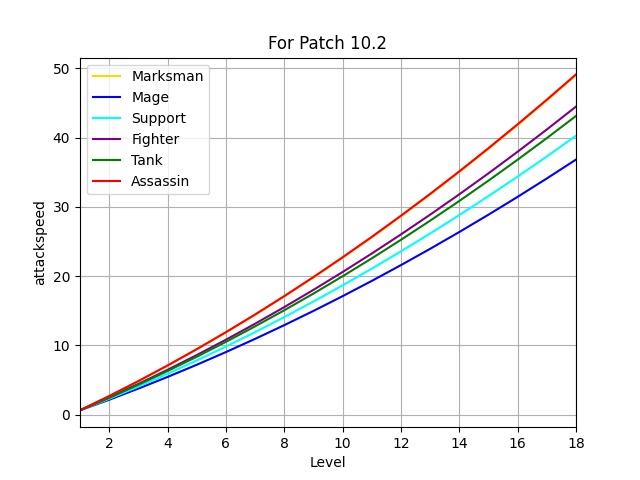
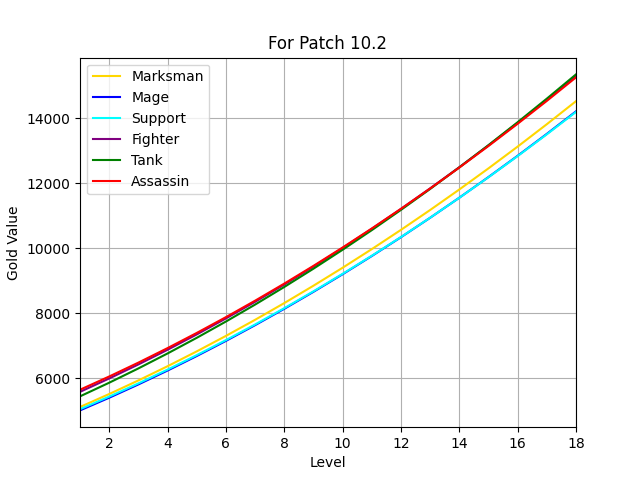
Fix and complete gold_value_of_level_up.py

diff --git a/Gold_Value_of_Level_UP.py b/Gold_Value_of_Level_UP.py
@@ -6,15 +6,13 @@ Created on Mon Mar  2 21:14:51 2020
 
 This file sets out to answer the question of:
 "How much is the gold value of a level up? How much does this change between levels (is it more valuable to level up from 1 to 2 or 17 to 18)?"
-
-TO-DO: make currently displayed graph show level up not AS per level up!
-TO-DO: rework to make work with new modules.champion_get function!
 """
 
 import modules.Champion_Get as cg
 import matplotlib.pyplot as plt
 import numpy as np
-import pandas as pd
+
+import modules.Stat_To_Gold_Converter as sgc
 
 # from sklearn import datasets, linear_model
 # from sklearn.metrics import mean_squared_error, r2_score
@@ -38,7 +36,6 @@ fi = 0
 assassin_mean = np.zeros(18)
 ai = 0
 
-stat = 'attackspeed'
 for index, row in champs.iterrows():
     if index == 'Senna':
         pass
@@ -46,19 +43,19 @@ for index, row in champs.iterrows():
         [tags.append(tag) for tag in row['tags'] if tag not in tags]
 
         hp = cg.Stat_Growth(base = row['hp'],
-                    growth = row['hpperlevel'],
-                    max_level = level[-1])
+                            growth = row['hpperlevel'],
+                            max_level = level[-1])
         mp = cg.Stat_Growth(base = row['mp'], 
                             growth = row['mpperlevel'],
                             max_level = level[-1])
-        ms = cg.Stat_Growth(base = row['movespeed'], 
+        ms = cg.Stat_Growth(base = row['ms'], 
                             growth = 0,
                             max_level = level[-1])
         armor = cg.Stat_Growth(base = row['armor'], 
                             growth = row['armorperlevel'],
                             max_level = level[-1])
-        mr = cg.Stat_Growth(base = row['spellblock'], 
-                            growth = row['spellblockperlevel'],
+        mr = cg.Stat_Growth(base = row['mr'], 
+                            growth = row['mrperlevel'],
                             max_level = level[-1])
         attackrange = cg.Stat_Growth(base = row['attackrange'], 
                             growth = 0,
@@ -72,52 +69,62 @@ for index, row in champs.iterrows():
         crit = cg.Stat_Growth(base = row['crit'], 
                             growth = row['critperlevel'],
                             max_level = level[-1])
-        ad = cg.Stat_Growth(base = row['attackdamage'],
-                            growth = row['attackdamageperlevel'],
+        ad = cg.Stat_Growth(base = row['ad'],
+                            growth = row['adperlevel'],
                             max_level = level[-1])
         attackspeed = cg.Stat_Growth(base = row['attackspeed'],
                             growth = row['attackspeedperlevel'],
                             max_level = level[-1])
 
+        gold_value_of_level_up = sgc.health_gold_value(hp)
+        gold_value_of_level_up += sgc.health_regen_gold_value(hpregen)
+        gold_value_of_level_up += sgc.mana_gold_value(mp)
+        gold_value_of_level_up += sgc.mana_regen_gold_value(mpregen)
+        gold_value_of_level_up += sgc.armor_gold_value(armor)
+        gold_value_of_level_up += sgc.MR_gold_value(mr)
+        gold_value_of_level_up += sgc.crit_gold_value(crit)
+        gold_value_of_level_up += sgc.AD_gold_value(ad)
+        gold_value_of_level_up += sgc.AS_gold_value(attackspeed)
+
         for tag in row['tags']:
             if tag == 'Marksman':
-                marksman_mean += np.array(row[stat])
+                marksman_mean += np.array(gold_value_of_level_up)
                 mmi += 1
             if tag == 'Mage':
-                mage_mean += np.array(row[stat])
+                mage_mean += np.array(gold_value_of_level_up)
                 mi += 1
             if tag == 'Support':
-                support_mean += np.array(row[stat])
+                support_mean += np.array(gold_value_of_level_up)
                 si += 1
             if tag == 'Fighter':
-                fighter_mean += np.array(row[stat])
+                fighter_mean += np.array(gold_value_of_level_up)
                 fi += 1
             if tag == 'Tank':
-                tank_mean += np.array(row[stat])
+                tank_mean += np.array(gold_value_of_level_up)
                 ti += 1
             if tag == 'Assassin':
-                assassin_mean += np.array(row[stat])
+                assassin_mean += np.array(gold_value_of_level_up)
                 ai += 1
 
-# marksman_mean = marksman_mean/mmi
-# mage_mean = mage_mean/mi
-# support_mean = support_mean/si
-# fighter_mean = fighter_mean/fi
-# tank_mean = tank_mean/ti
-# assassin_mean = assassin_mean/ai
+marksman_mean = marksman_mean/mmi
+mage_mean = mage_mean/mi
+support_mean = support_mean/si
+fighter_mean = fighter_mean/fi
+tank_mean = tank_mean/ti
+assassin_mean = assassin_mean/ai
 
-# plt.plot(level,marksman_mean,color='gold',label='Marksman')
-# plt.plot(level,mage_mean,color='blue',label='Mage')
-# plt.plot(level,support_mean,color='cyan',label='Support')
-# plt.plot(level,fighter_mean,color='purple',label='Fighter')
-# plt.plot(level,tank_mean,color='green',label='Tank')
-# plt.plot(level,assassin_mean,color='red',label='Assassin')
-# plt.legend()
-# plt.grid()
-# plt.xlim(1, 18)
-# plt.xlabel('Level')
-# plt.ylabel(stat)
-# plt.title('For Patch 10.2')
-# plt.savefig('figures/gold_value_of_level_up.png')
-# print("Saved file 'ADC_stat_growth.png' under figures/gold_value_of_level_up.png")
-# plt.show()
+plt.plot(level,marksman_mean,color='gold',label='Marksman')
+plt.plot(level,mage_mean,color='blue',label='Mage')
+plt.plot(level,support_mean,color='cyan',label='Support')
+plt.plot(level,fighter_mean,color='purple',label='Fighter')
+plt.plot(level,tank_mean,color='green',label='Tank')
+plt.plot(level,assassin_mean,color='red',label='Assassin')
+plt.legend()
+plt.grid()
+plt.xlim(1, 18)
+plt.xlabel('Level')
+plt.ylabel('Gold Value')
+plt.title('For Patch 10.2')
+plt.savefig('figures/gold_value_of_level_up.png')
+print("Saved file under figures/gold_value_of_level_up.png")
+plt.show()
